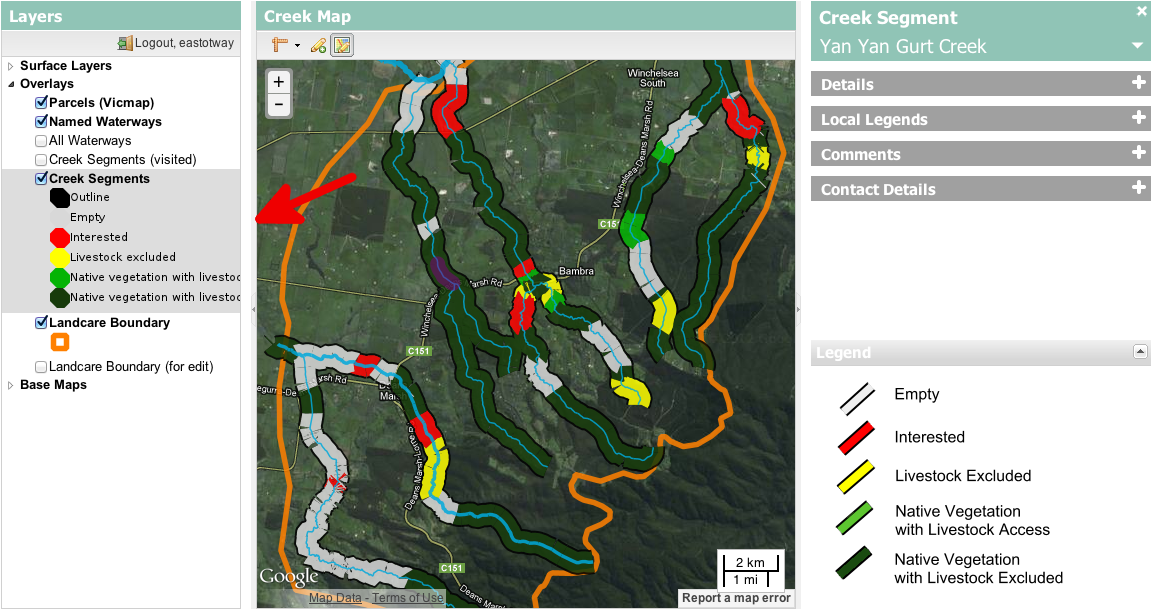
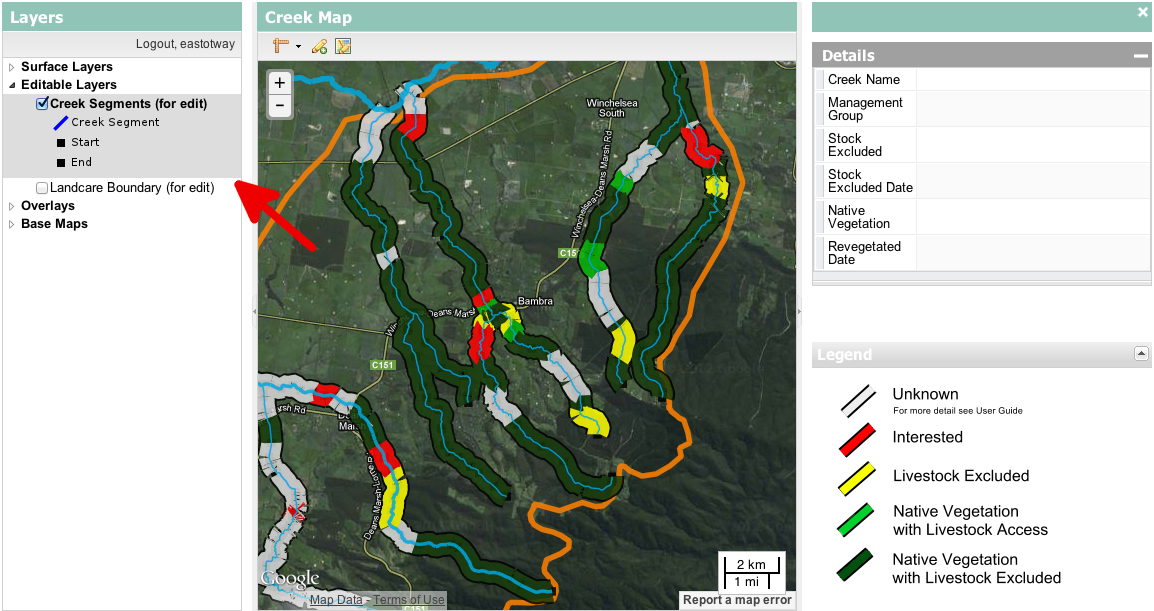
creeklink changes

diff --git a/creeklink/managerguide/index.html b/creeklink/managerguide/index.html
@@ -145,7 +145,9 @@
 			</div>
   			<div class="row-fluid">
   				<div class="span7">
-					<p>Edit creek segments by clicking in the "Creek Segments" area to select it (grey it out).</p>
+					<p>Edit creek segments by ticking the "Creek Segments (for edit)" checkbox in 
+					"Editable Layers" to select it and then clicking in the "Creek Segments (for edit)" 
+					area to select it (grey it out).</p>
 				</div>
     				<div class="span4">
     				<a href="#" class="thumbnail">
@@ -210,7 +212,9 @@
 			</div>
   			<div class="row-fluid">
   				<div class="span7">
-					<p>Create creek segments by clicking in the "Creek Segments" area to select it (grey it out).</p>
+					<p>Create creek segments by ticking the "Creek Segments (for edit)" checkbox in 
+					"Editable Layers" to select it and then clicking in the "Creek Segments (for edit)" 
+					area to select it (grey it out).</p>
 				</div>
     			<div class="span4">
     				<a href="#" class="thumbnail">
@@ -281,8 +285,8 @@
 			</div>
   			<div class="row-fluid">
   				<div class="span7">
-					<p>Edit landcare boundary by ticking the "Landcare Boundary (for edit)" checkbox and 
-					clicking in the "Landcare Boundary (for edit)" area to select it (grey it out).</p>
+					<p>Edit landcare boundary by ticking the "Landcare Boundary (for edit)" checkbox 
+					in "Editable Layers" and clicking in the "Landcare Boundary (for edit)" area to select it (grey it out).</p>
 				</div>
     			<div class="span4">
     				<a href="#" class="thumbnail">
